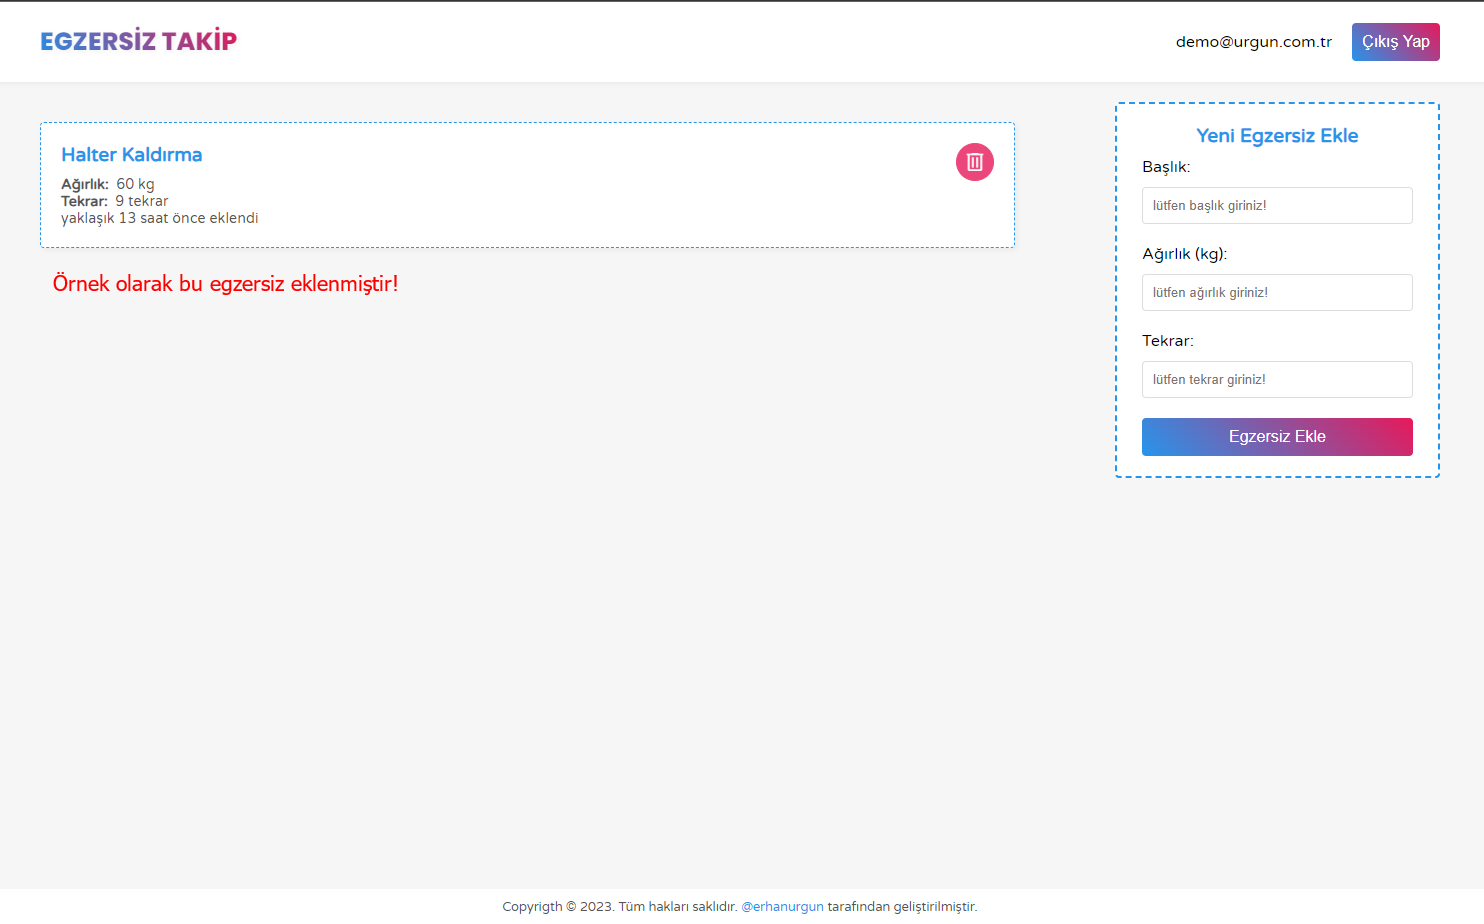
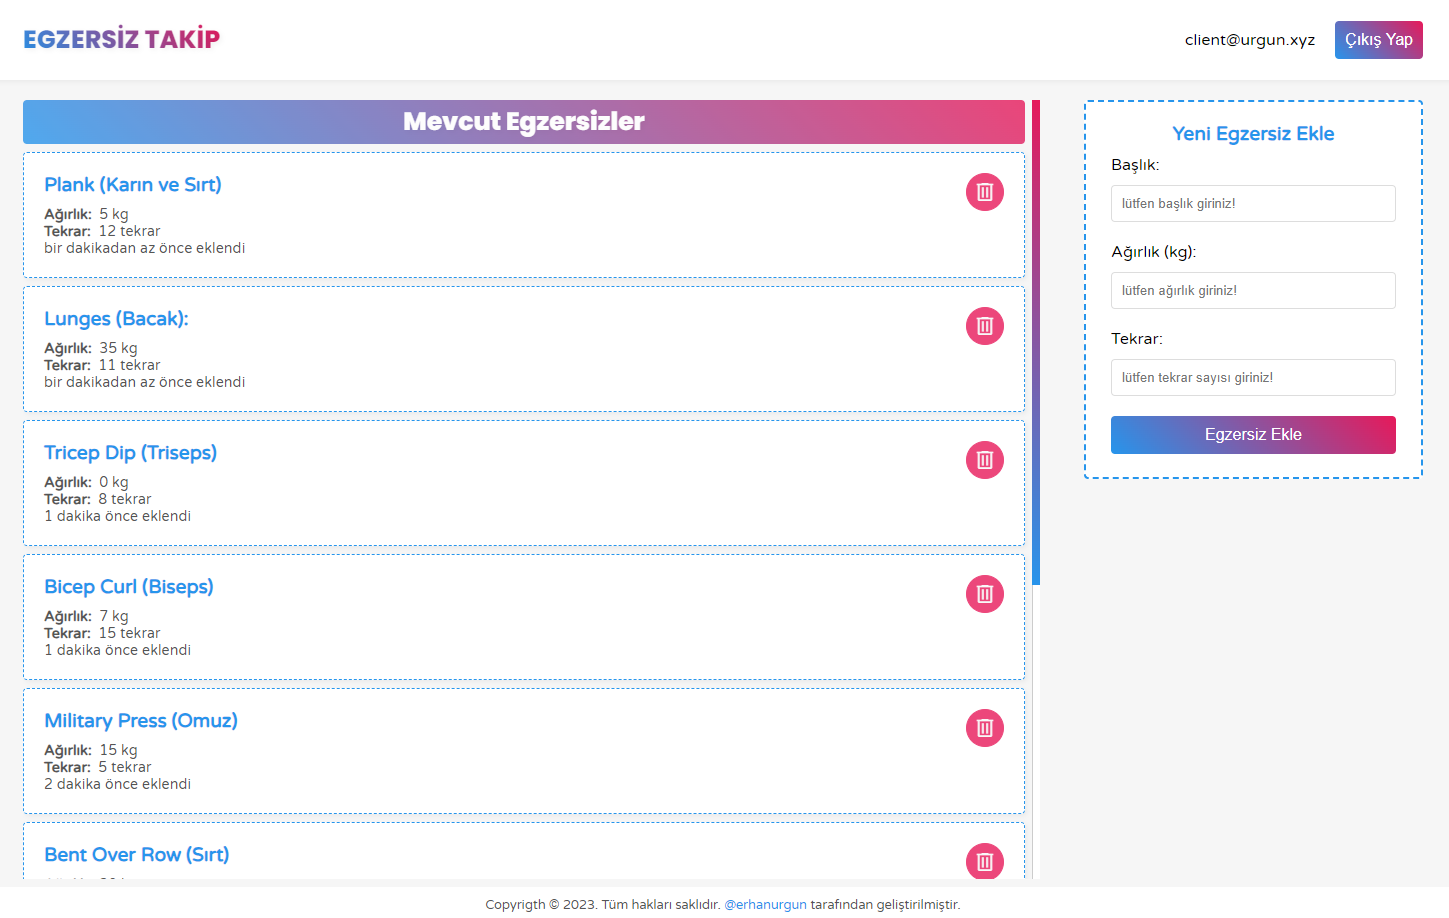
ufak tefek hatalar duzeltildi - 2

diff --git a/frontend/src/index.css b/frontend/src/index.css
@@ -7,6 +7,10 @@
     .powered-by {
         position: fixed;
     }
+
+    .home .workouts {
+        max-height: calc(100vh - 144px);
+    }
 }
 
 @media (max-width: 768px) {
@@ -45,6 +49,11 @@
     .powered-by span:first-child {
         display: none;
     }
+
+    .home .workouts {
+        max-height: calc(70vh - 144px);
+        margin-bottom: 60px;
+    }
 }
 
 /* Renkler ve Temel Stiller */
@@ -58,6 +67,20 @@
     --black-2: rgba(0, 0, 0, 0.05);
     --gray: #555;
     --silver: #ddd;
+}
+
+::-webkit-scrollbar {
+    width: 8px;
+    background-color: #fff;
+    border-left: 1px solid #ccc;
+}
+
+::-webkit-scrollbar-thumb {
+    background: linear-gradient(45deg, var(--primary), var(--error));
+}
+
+::-webkit-scrollbar-thumb:hover {
+    background: var(--primary);
 }
 
 /* Genel Stiller */
@@ -111,19 +134,38 @@ header .head h2.logo {
 
 /* Ana Sayfa */
 .home {
-    display: grid;
     grid-template-columns: 3fr 1fr;
-    gap: 100px;
+    display: grid;
+    gap: 44px;
+}
+
+.home .workouts .head-text {
+    background: linear-gradient(45deg, var(--primary), var(--error));
+    text-shadow: 2px 2px 5px var(--black-2);
+    font-family: "Poppins", sans-serif;
+    color: var(--white-1);
+    border-radius: 4px;
+    text-align: center;
+    padding: 3px 15px;
+    font-weight: bold;
+    font-size: 25px;
+    margin-top: 0;
+    opacity: 0.8;
 }
 
 .workout-details {
     background: var(--white-1);
     border-radius: 4px;
-    margin: 20px auto;
+    margin: 0 auto;
     padding: 20px;
     position: relative;
     box-shadow: 2px 2px 5px var(--black-2);
     border: 1px dashed var(--primary);
+    margin-top: -17px;
+}
+
+.workout-details:not(:last-child) {
+    margin-bottom: 25px;
 }
 
 .workout-details h4 {
@@ -207,7 +249,9 @@ div.error {
     border: 1px solid var(--error);
     color: var(--error);
     border-radius: 4px;
-    margin: 20px 0;
+    margin-top: 44px;
+    width: 111%;
+    margin-left: -10%;
 }
 
 .del {
@@ -263,6 +307,8 @@ form.login h3 {
     border-radius: 4px;
     padding: 20px 25px;
     background-color: var(--white-1);
+    height: 335px;
+    margin-bottom: 52px;
 }
 
 .create h3 {
@@ -331,4 +377,9 @@ form.login h3 {
 
 .powered-by a:hover {
     color: var(--error);
+}
+
+.home .workouts {
+    padding-right: 7px;
+    overflow-y: scroll;
 }

diff --git a/frontend/src/pages/Home.js b/frontend/src/pages/Home.js
@@ -37,6 +37,7 @@ const Home = () => {
     return (
         <div className="home">
             <div className="workouts">
+                {workouts && <h3 className="head-text">Mevcut Egzersizler</h3>}
                 {!workouts && <div className="loading">Yükleniyor...</div>}
                 {workouts &&
                     workouts.map((workout) => (
